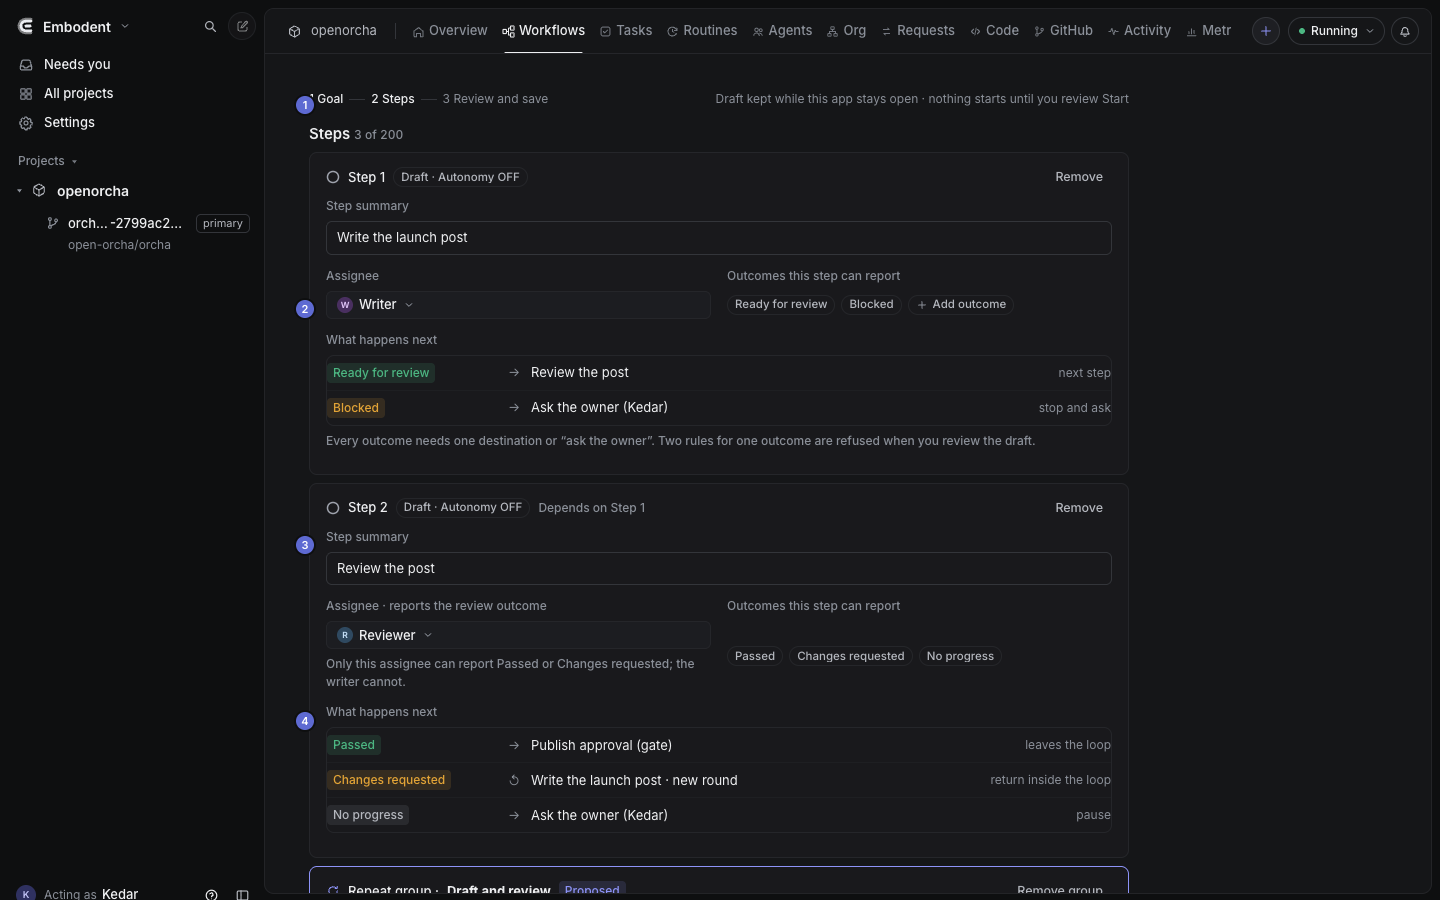
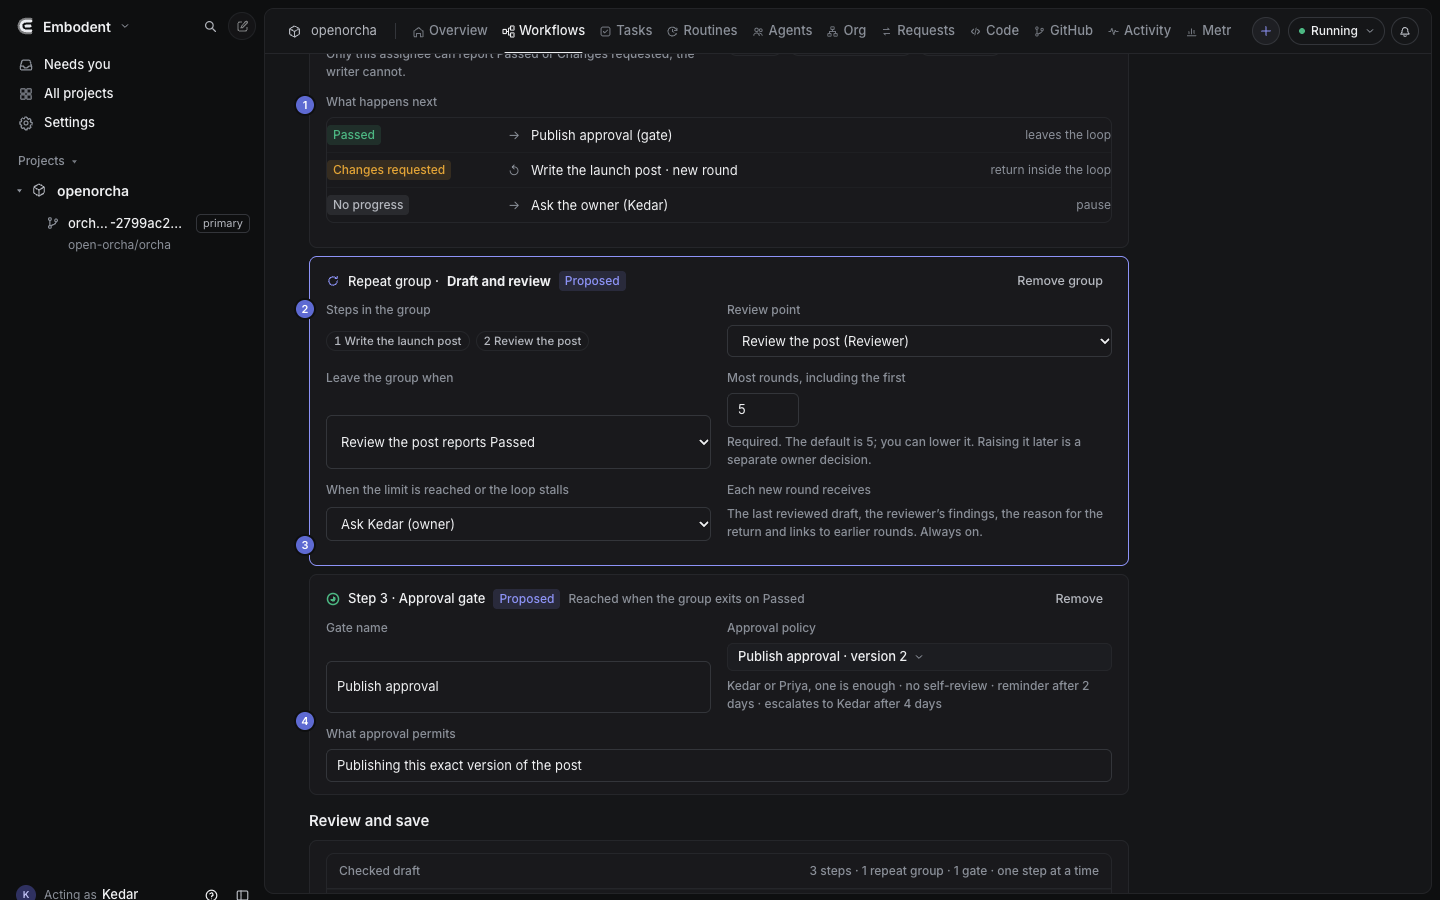
[Dana] Flexible workflows UX: spec README (frames A–E documented)

diff --git a/docs/design/workflows/flexible/README.md b/docs/design/workflows/flexible/README.md
@@ -1,0 +1,93 @@
+# Flexible workflows — UX design (loops, outcomes, approvals, recovery)
+
+**Design spec for the product requirements in [issue #355](https://github.com/open-orcha/orcha/issues/355)** (Informer's requirements document, version 1, step 4 of the "Make workflows better" workflow). Dana, 2026-10-28; requested by Kedar. This folder extends the Workflow UI redesign in `../redesign/` ([issue #350](https://github.com/open-orcha/orcha/issues/350)); that folder and that issue are unchanged. Architecture belongs to CodeCleanupAgent (step 3), implementation and tests to ReleaseEngineer (step 2). Mobile stays parked in #348: the requirements say no new mobile workflow screens in the first release.
+
+| File | What it is |
+|---|---|
+| `flexible.html` | Static mockup gallery built on the portal's real `v2-tokens.css`, `v2-primitives.css`, `v2-shell.css` and the live shell chrome, exactly like `../redesign/redesign.html`. Open in a browser; `?theme=light`, `?frame=x03`, `?notes=off`. Sample data is a fictional Recipe App team (Kedar, Priya; agents Writer, Reviewer, Planner, Builder, Tester). Not an app. |
+| `renders/x*-dark.png`, `renders/x*-light.png` | One PNG per frame per theme, 1440 × 900. |
+| `walkthroughs/` | One short animated walkthrough per use case (GIF for the issue, MP4 on the branch), recorded from the gallery with `record.mjs`. |
+| `render.mjs` | Re-renders every frame (`PUPPETEER_DIR=<dir with puppeteer-core> node render.mjs`). |
+
+Status legend used below: **existing** = behaviour PR #340 already has; **proposed** = needs the API additions in §7. Everything "proposed" is drawn as unavailable on a server that does not report the capability, the same rule the redesign uses for Hide.
+
+## 1. What changes and why
+
+The approved requirements add five ideas the current Workflow pages cannot show: **declared outcomes with "what happens next" rules**, **bounded repeat groups** (rounds, limit, escalation), **feedback carried into each new round**, **reusable human approval policies** with gates that are separate from task acceptance, and **recovery that never repeats a public action**. The redesign in #350 keeps every control it had; this spec adds the surfaces for those five ideas and changes ten screens. Nothing here replaces prerequisites, the three-prerequisite rule, human-only Start and Finish, evidence or acceptance records.
+
+Principles carried over from #350 plus three new ones:
+
+1. **Explain in words first.** Every loop, branch and gate has a sentence ("Round 2 of 5 · exits when Review reports Passed · then asks Kedar"); the diagram is never the only explanation.
+2. **Outcome ≠ permission.** A reviewer's "Passed" is shown as an outcome; a person's approval is shown as a decision with what it permits and which version it covers. They never share a control.
+3. **Show the path not taken.** Unselected branches, stale work and overridden decisions stay visible with the rule or person that decided.
+4. **Limits are visible before Start and at the limit.** The Start review lists routes, limits, approvers and anything incomplete; a reached limit or stall is an owner decision, never a silent round 6.
+
+## 2. Use cases and walkthroughs
+
+| | Walkthrough | Frames | What the viewer sees |
+|---|---|---|---|
+| A | Set up a two-step loop | x01, x01b, x02 | Create workflow: outcomes per step, route rules, a Repeat group (steps, review point, exit outcome, limit 5, escalation owner), an approval-gate step with a named policy; the Start review lists the route, limits and approvers. |
+| B | Watch the loop run | x03 | Round 1 returned Changes requested; round 2 shows the round counter, the exact draft version and the three findings the writer received, why the step runs and what it waits on. |
+| C | Loop limit and stalled loop | x04, x05 | Round 5 still asks for changes: no round 6; the owner chooses more rounds (used count kept), reassign, accept as-is (override recorded beside the original), or stop. A stall pauses with rounds 2 and 3 side by side. |
+| D | Feedback across several steps | x06 | Test reports Requirements defect; the preview lists what repeats, what becomes stale and which acceptance needs renewing before the report is sent. |
+| E | Branch on outcome | x07 | Only the selected path runs; the other is Not selected with the deciding outcome; a missing outcome asks the owner instead of guessing. |
+| F | Reusable approval policy | x08, x09 | (next) Approval gate sheet: policy, version being approved, what approval permits, Approve / Request changes / Decline; a changed draft invalidates the earlier approval; the policies surface. |
+| G | Recovery | x10 | (next) Restart mid-route makes one next attempt; a publish with no receipt is "uncertain" and asks before retrying; a live worker is reconciled, not duplicated. |
+| H | Status and finish | x11 | (next) Every step shows who, which round, which version and why it waits; Finish blocked by an unresolved loop or worker with a plain reason. |
+
+## 3. Screens that change against #350
+
+| # | Screen (#350 frame) | Change |
+|---|---|---|
+| 1 | Create workflow (f07) | "Outcomes this step can report" chips and a "What happens next" rule list per step; Repeat group card; Approval gate step type with a policy picker; the checked-draft card refuses missing destinations, unbounded groups, ineligible reporters. Frames x01, x01b. |
+| 2 | Start review dialog (f04) | Expected route, loops, gates and stop conditions; limits (rounds, agent turns, estimated cost as an estimate); incomplete settings with links; Start disabled until none remain. Frame x02. |
+| 3 | Workflow detail list and graph (f02, f08) | Repeat groups drawn as a bracket with round dots and the exit rule; gate rows; Not selected rows; a Route tab that shows selected and unselected paths. Frames x03, x04, x07. |
+| 4 | Task inspector (f03) | Round and attempt, why it runs (the rule), what it received this round (exact versions and findings), waiting reason, next permitted actions. Frame x03. |
+| 5 | Result review / outcome report (f05) | The reporter declares one outcome from the step's list; findings as a list; a "this sends work to…" preview. Frame x06. |
+| 6 | Owner decision sheets (new) | Limit reached, stalled loop, missing outcome: options with their consequences and a reason field; the original outcome is kept beside any override. Frames x04, x05, x07. |
+| 7 | Approval gate sheet (new) | Frame x08 (next). |
+| 8 | Activity and Review history (f09, f09b) | Rounds as cards with inputs, outputs and the deciding rule; stall pauses; recovery entries. Frames x05 (comparison), x11 (next). |
+| 9 | Finish checklist (f06) | Unresolved loop, unselected branch and live-worker blockers. Frame x11 (next). |
+| 10 | Approval policies (new settings surface) and Needs-your-input strip (f14) | Frame x09 (next). |
+
+## 4. Frame callouts
+
+- **x01 Create workflow.** 1 stepper: "Steps" replaces "Tasks" only as a label; a step is still a task. 2 assignee and outcome chips; the review step says which assignee may report the review outcome. 3 second step. 4 route rules: every outcome has one destination or "ask the owner"; the arrow glyph ↺ marks a return inside a group.
+- **x01b (same page, scrolled).** Repeat group card: steps, review point, exit outcome, most rounds (required, default 5), what happens at the limit, and a note that each round receives the last draft, findings and reason. Gate step: name, policy (with its summary: approvers, one-of, no self-review, reminder, escalation), what approval permits.
+- **x02 Start review.** 1 expected route with Loop, Gate and Stops-and-asks badges. 2 limits: rounds, agent turns, estimated cost labelled as an estimate. 3 incomplete settings, with the refused-start example in the caption.
+- **x03 Loop running.** 1 group bracket: name, Round 2 of 5, round dots, exit rule, escalation. 2 the running step's sub-line names the round and what it received. 3 the gate row sits outside the bracket. 4 inspector: round, attempt, why it runs, waiting on. 5 "Received this round": exact draft version and findings, original words kept.
+- **x04 Limit reached.** 1 owner bar in words. 2 what is still open after the last round. 3 options: more rounds show the new maximum and the used count; accept-as-is records an override; 4 stop keeps everything.
+- **x05 Stalled loop.** 1 paused bar names the two rounds. 2 side-by-side comparison on finding ids and file versions (wording similarity is only a warning). 3 options with the remaining-rounds count.
+- **x06 Multi-step return.** 1 outcome choice with its route. 2 findings, and the reminder that reporting cannot change success criteria. 3 preview: repeats, stale, renew, kept. 4 rounds remaining.
+- **x07 Branch.** 1 deciding step and its outcome. 2 Not selected node (dotted route, strike-through title, not failed). 3 selected node (solid route). 4 the missing-outcome case. 5 "Why this path" panel.
+
+## 5. States, permissions, keyboard
+
+- Loading, empty, forbidden, unreachable, stale and unsupported-server states follow #350 §5 unchanged. On a server without the capability, outcome, loop, gate and policy controls are hidden from Create and the Start review says "This server runs simple workflows"; existing runs render exactly as #350.
+- Only the step's assigned reviewer can report a review outcome; the producer's report form offers only its own outcomes. Only the workflow owner (or a human with the owner role) sees limit, stall, override and missing-outcome decisions. Agents never see approval controls.
+- Everything is reachable by keyboard; status is never colour-only (badge text, round numbers and glyphs carry the meaning). Dialogs trap focus and return it to the opening control, as the primitives already do.
+
+## 6. Decisions taken in this design
+
+- Loops are drawn as a bracket around consecutive list rows, not as a back-edge in the graph; the Route tab shows return arrows separately from prerequisites.
+- Outcome reporting reuses the Result review dialog (#350 frame 05) with an outcome selector instead of a second "report" surface.
+- Owner decisions at a limit, stall or missing outcome are sheets with options and consequences, not free-text chat.
+- Gate approval is its own sheet, separate from task acceptance, with the version and the permitted action named.
+
+## 7. API asks (for the architecture step)
+
+The current contract (`/openapi.json`, checked 2026-10-28) has no outcomes, routes, repeat groups, rounds, allowances, stall records, approval policies or gate decisions. The frames therefore need, in the order the walkthroughs use them:
+
+1. **Step outcomes and routes** on the workflow definition: per step, a list of outcome names and, per outcome, one destination (step, "ask owner" or "exit group"); validation errors returned by the preview and start-check routes.
+2. **Repeat groups**: name, member steps, review step, exit outcome, max rounds, escalation owner; run state with current round, rounds used, and per-round inputs (artifact versions, findings, reason).
+3. **Outcome report** on a task: declared outcome, findings list, free text; only the assigned reporter may post it; the server returns the routing preview before commit.
+4. **Owner decisions**: raise limit (new max, used count), reassign-and-continue, accept-with-override, stop; stall resume with a note; pick outcome for a missing one. Each stored with the reason and the original outcome.
+5. **Approval policies** (named, versioned) and **gate decisions** (approve, request changes, decline) bound to an artifact version.
+6. **Recovery records**: uncertain external actions with receipts, worker reconciliation state.
+
+Nothing in this folder changes production code.
+
+## 8. Validation and status
+
+- Rendered both themes with the portal's own stylesheets; callouts checked against the frames.
+- Review by CodeCleanupAgent and Code Reviewer: pending. Kedar's approval: pending.
